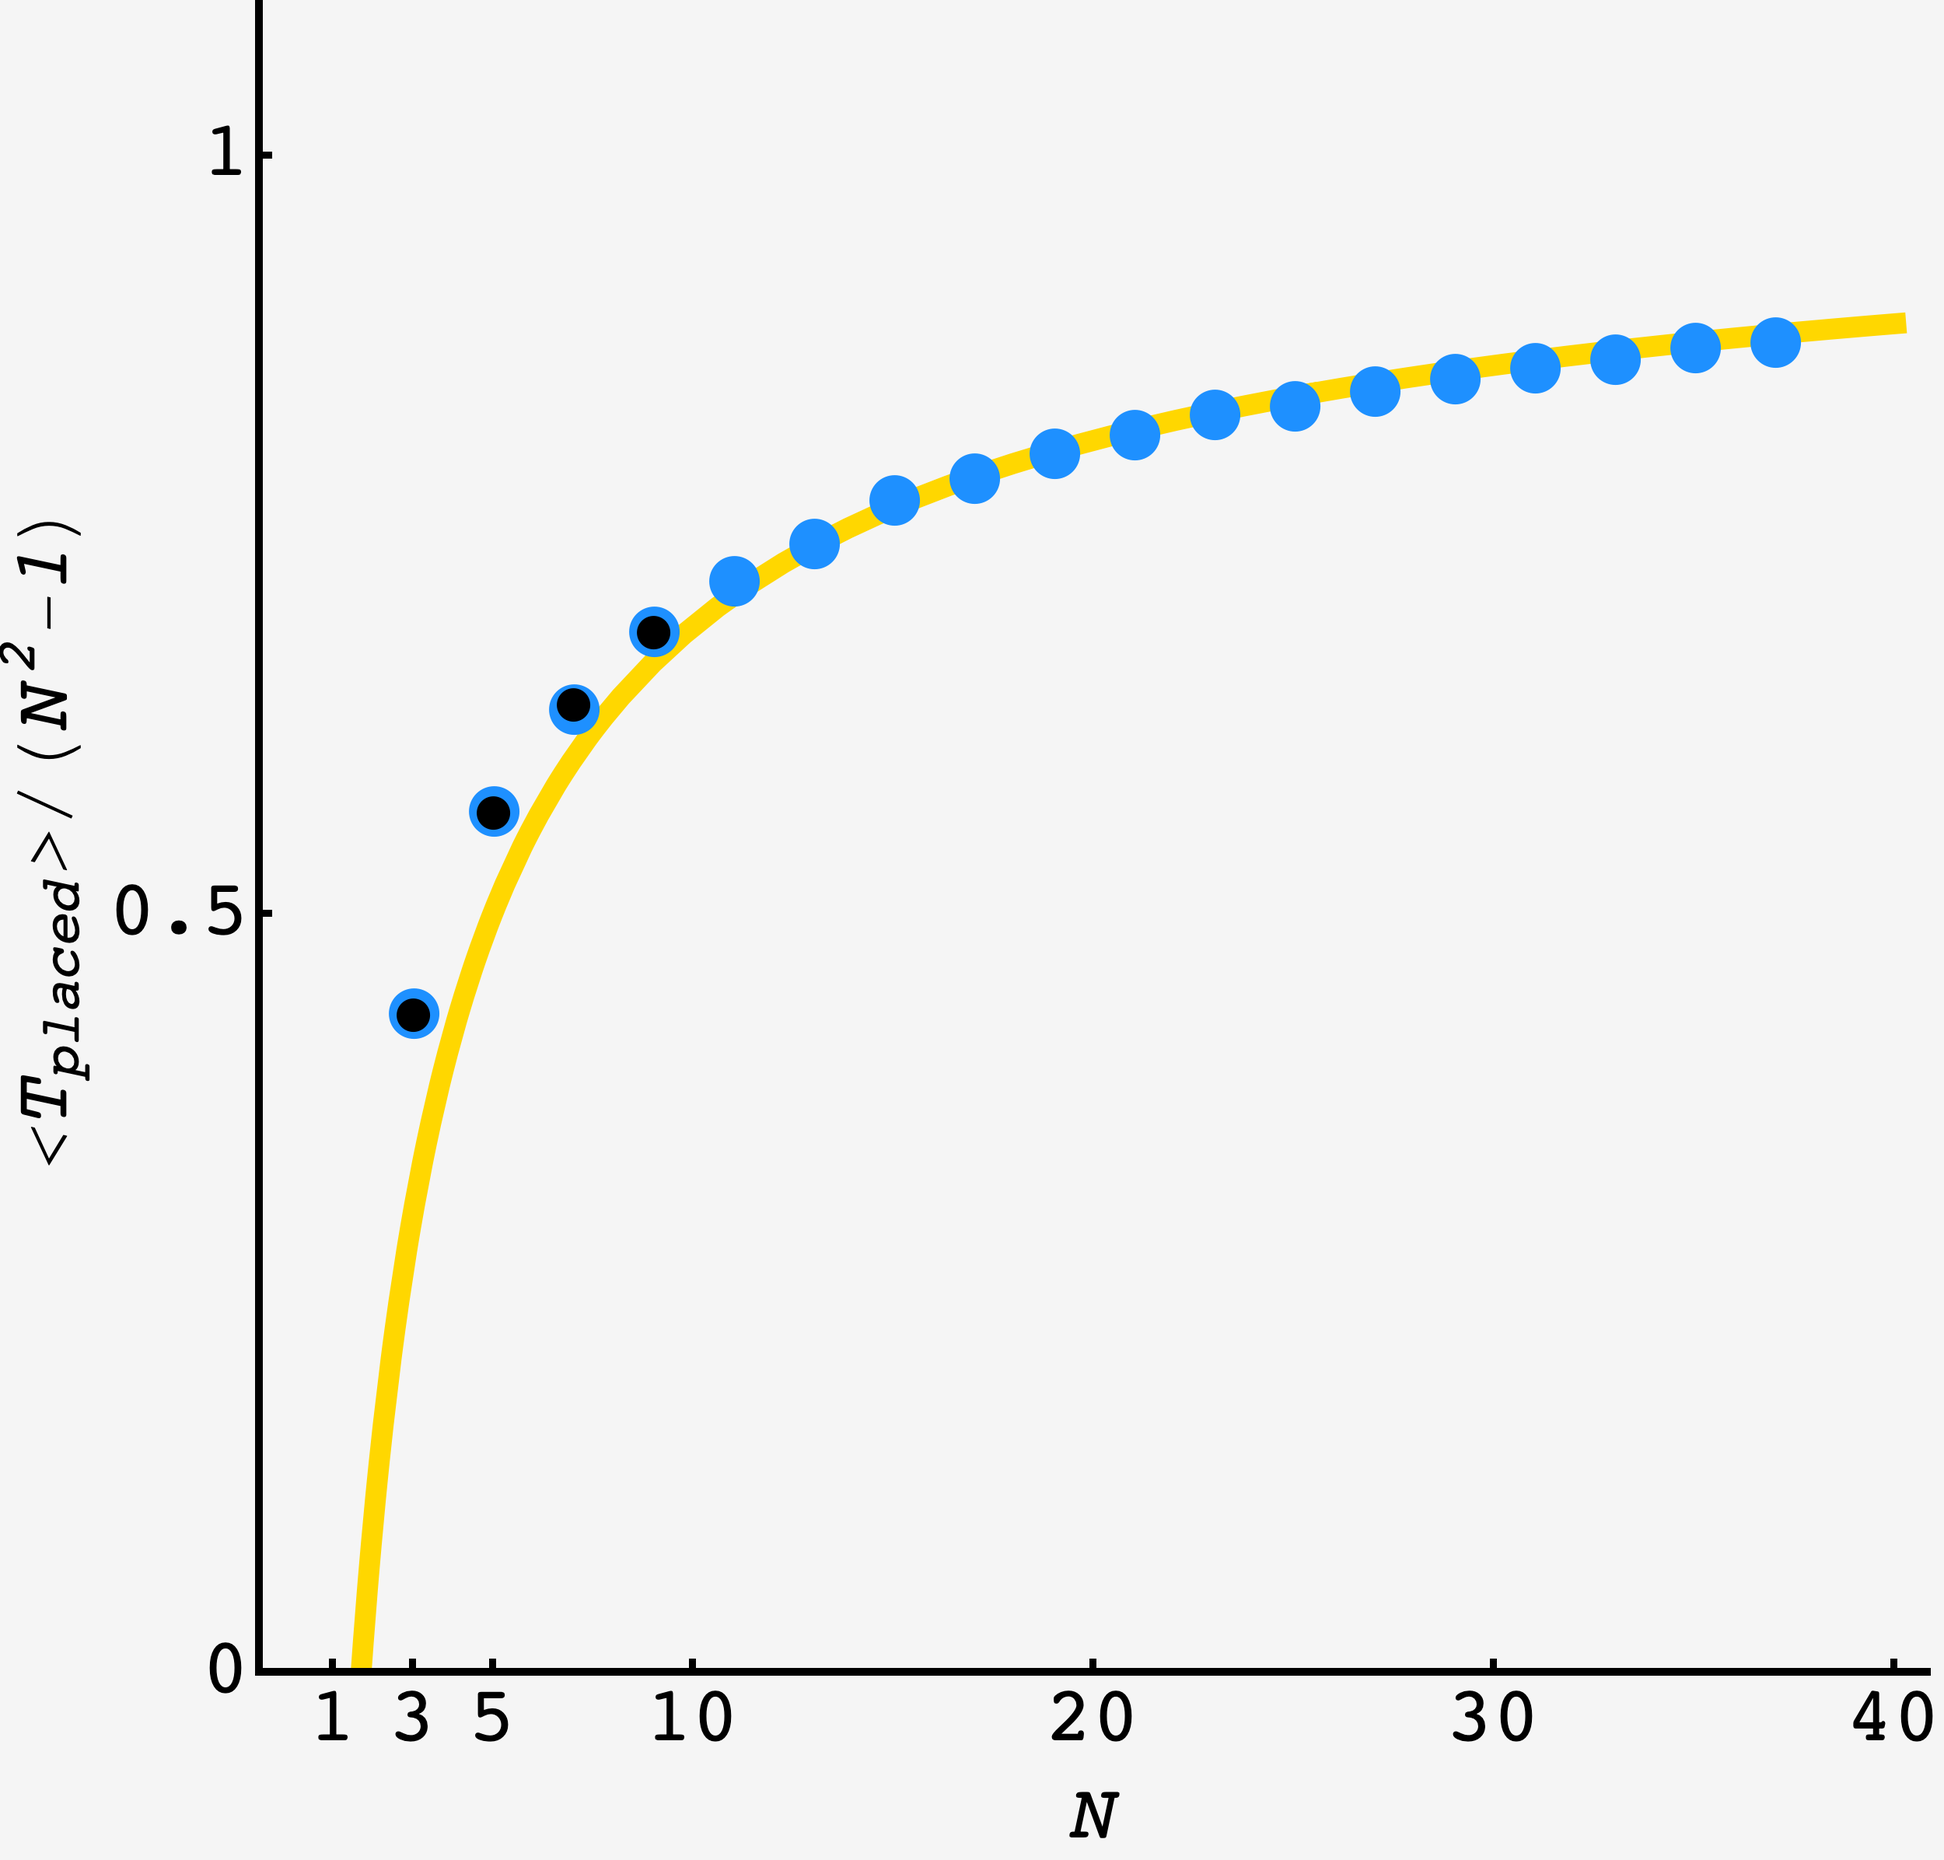
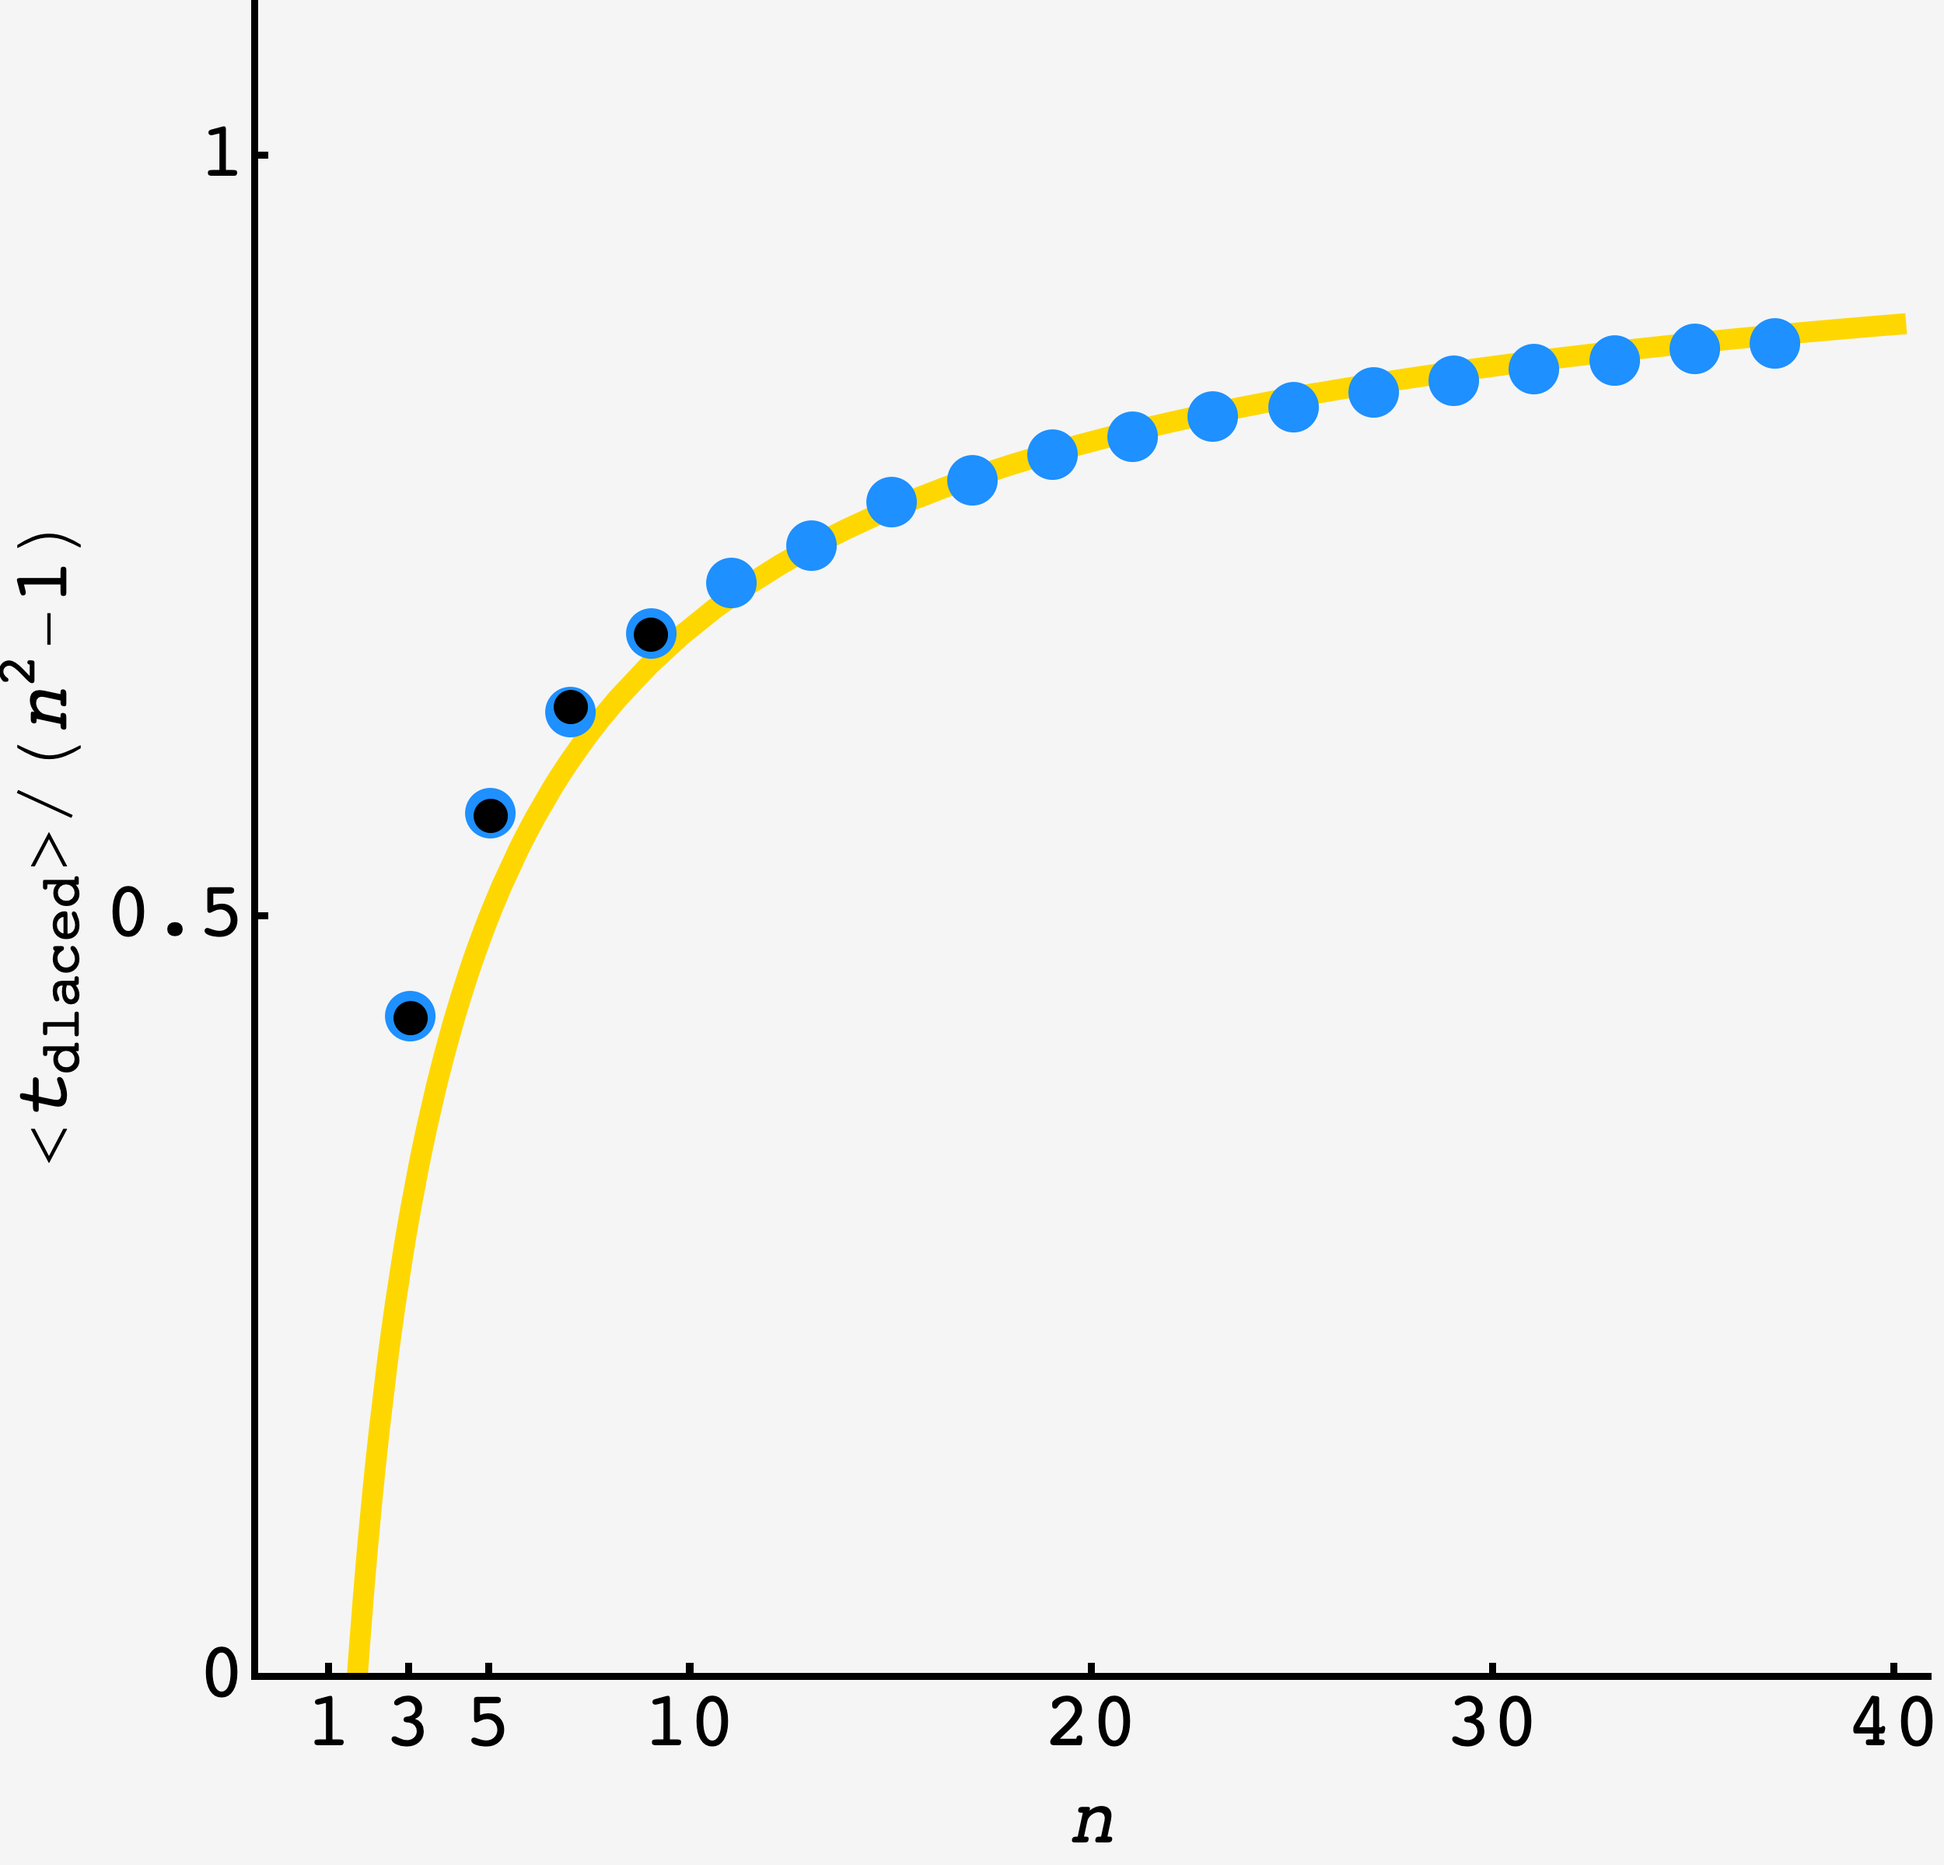
Plot update.

diff --git a/_posts/2026-01-26-fiddler-bingo.md b/_posts/2026-01-26-fiddler-bingo.md
@@ -31,13 +31,13 @@ i found two ways to deal with this problem, one approximate and one exact. becau
 
 a board with BINGO has at least one row, column, or diagonal with all its tiles filled in. it may also have some number of other filled tiles that aren't participating in the BINGO.
 
-let's call the side length of the board (in tiles) $n,$ the tiles in a BINGO $L,$ the number of BINGO lines on the board $B,$ and the number of spots on the board $S = n^2 - 1.$ 
+let's call the side length of the board (in tiles) $n,$ the tiles in a BINGO $\ell,$ the number of BINGO lines on the board $B,$ and the number of spots on the board $S = n^2 - 1.$ 
 
-the number of ways to place a particular BINGO line on a board with $t$ placed tiles is equal to the number of ways to pick spots for the $\ell$ tiles of the BINGO line ($1$ way, by definition) times the number of ways to pick spots for the $(t-\ell)$ other tiles. this is just
+the number of ways to place a particular BINGO line on a board with $t$ placed tiles is equal to the number of ways to place the $\ell$ tiles of the BINGO line ($1$ way, by definition) times the number of ways to place the $(t-\ell)$ other tiles. this is just
 
 $$ \binom{S-\ell}{t-\ell}. $$
 
-the total number of ways to pick spots for $t$ tiles is $\binom{S}{t}$ so the probability that a given BINGO is formed by the point $t$ tiles have been placed is
+the total number of ways to pick spots for $t$ tiles is $\binom{S}{t}$ so the probability that a given BINGO line is formed among $t$ placed tiles is
 
 $$ 
 \begin{align}
@@ -49,18 +49,20 @@ $$
 \end{align} 
 $$
 
-since there are $B$ possible BINGOs, the expected number of BINGOs in the grid is $ B e^{-\ell(S-t)/S},$ which we can set equal to $1$ to solve for the number of tiles $t$ at which we expect BINGO to first occur
+since there are $B$ possible BINGOs, the expected number of BINGOs in the grid is $ B e^{-\ell(S-t)/S}.$ we can set this equal to $1$ to solve for the number of placed tiles $t_\text{BINGO}$ at which we expect BINGO to first occur
 
 $$\begin{align}
 t_\text{BINGO} &= S(1-\log B/\ell) \\
 &= (n^2-1)\left(1-\frac{\log 2n+2}{n}\right)
 \end{align}$$
 
-dividing by $S,$ one prediction this makes is that in the limit of the infinite Bingo board, we need to fill in $100\%$ of the tiles before we can expect to make BINGO.
+dividing by $S,$ this predicts that, in the limit of the infinite Bingo board, we need to fill in $100\%$ of the tiles before we can expect to make BINGO.
 
-plotting the prediction (gold) for $t_\text{BINGO}/S$ against an $N=1,000$-round simulation, there is very good agreement for $n\approx 9$ and above.
+plotting the prediction (gold curve) for $t_\text{BINGO}/S$ against an $N=1,000$-round simulation (blue dots), there is very good agreement for $n\approx 9$ and above.
 
 ![](/img/2026-01-26-fiddler-bingo-normalized.png){:width="450 px" class="image-centered"}
+
+the code to run the simulation is below. the logic is to just fill in one tile at a time and check for horizontal, vertical, or diagonal BINGOs at each turn.
 
 ```python
 def new_board(n):
@@ -111,9 +113,11 @@ def measure(n):
 
 to find the exact probability of BINGO with $t$ placed tiles, we can recycle the same idea using the principle of inclusion and exclusion. 
 
-we are going to count the number of ways to get at least one BINGO using $t$ tiles, then subtract it from the total number of ways to place $t$ tiles, to get the number of ways to NOT have BINGO with $t$ placed tiles. we then divide this by the number of ways to place $t$ tiles to get the probability that BINGO is reached for the first time on the $t^\text{th}$ tiles.
+we are going to count the number of ways to get at least one BINGO using $t$ tiles, then subtract it from the total number of ways to place $t$ tiles, to get the number of ways to not have BINGO with $t$ placed tiles. we then divide this by the total number of ways to place $t$ tiles to get the probability that BINGO is reached for the first time on the $t^\text{th}$ tiles.
 
-the probability to make BINGO for the first time with the $t^\text{th}$ tile, $P(t)$ is the probability to not have BINGO after $(t-1)$ tiles minus the probability to not have BINGO after $t$ tiles.
+the probability to make BINGO for the first time with the $t^\text{th}$ tile is the probability to not have BINGO after $(t-1)$ tiles, $P_{t-1},$ minus the probability to not have BINGO after $t$ tiles, $P_t.$
+
+#### Example
 
 suppose we had $4$ placed tiles in the $3$-by-$3$ grid. we could make BINGO if we have
 
@@ -125,19 +129,21 @@ but these scenarios include and double count the following scenarios
 - two BINGOs using the free tile at grid center
 - one BINGO on an edge, plus a BINGO that uses the center tile that has $1$ tile of overlap with the edge BINGO
 
-this means we have to subtract their probability off the total. since there are no other arrangements with $4$ tiles, we don't have to worry about larger numbers of intersections.
+this means we have to subtract their probability off the total to get rid of the double counting. since there are no other arrangements with $4$ tiles, we don't have to worry about larger order unions.
 
-however, if we were using $5$ tiles, then it would be possible to form three-BINGO grids. for example, a BINGO on the top edge plus both diagonal BINGOs would use a total of $5$ tiles. 
+but suppose we were using $5$ tiles. then it would be possible to form three-BINGO grids. for example, a BINGO on the top edge plus both diagonal BINGOs would use a total of $5$ unique tiles. 
 
-in cases like this, subtracting the double counter two-BINGO scenarios would also remove the three-BINGO scenarios, and we'd have to add them back in.
+in cases like this, subtracting the double counted two-BINGO scenarios would completely remove the three-BINGO scenarios, and we'd have to add them back in.
 
 as we go to higher and higher numbers of tiles, we have to consider higher and higher order unions. this is the principle of inclusion exclusion.
+
+#### Counting
 
 now we have to figure out how to count the total number of two-BINGO unions, three-BINGO unions, four-BINGO unions, and so on. 
 
 first, let's form the set of valid BINGOs, $\mathcal{B} = \\{B_1, B_2,\ldots, B_{2n+2}\\},$ which consists of the four edge BINGOs, the two diagonal BINGOs, and the vertical and horizontal BINGOs through the center tile. suppose we select the top edge and one of the diagonals and use $6$ tiles total. first we form the union of the tiles for the top edge and the diagonal, giving $4$ tiles. after that, the grid has $4$ open tiles, and we have $2$ tiles left to place. this means there are $\binom{4}{2}$ ways to form this particular double (or more) bingo using $6$ tiles.
 
-the exact number of ways to make BINGO with $t$ placed tiles is equal to the sum
+the exact number of ways to make one or more BINGOs with $t$ placed tiles is equal to the sum
 
 $$ N_k = \sum_{k=1}^{\lvert\mathcal{B}\rvert} \sum \limits_{\mathcal{B}^k} (-1)^k\lvert B_i \cup B_j\cup\ldots B_k\rvert $$
 
@@ -170,8 +176,6 @@ $$
 $$
 
 these points are plotted in black on the graph above, and overlap perfectly with the simulation.
-
-beyond $n=9,$ the runtime of this naive implementation is too long to complete.
 
 ```python
 from itertools import combinations
@@ -231,5 +235,7 @@ def exact(N):
     return total
 
 ```
+
+beyond $n=9,$ the runtime of this naive implementation is too long to finish.
 
 <br>
